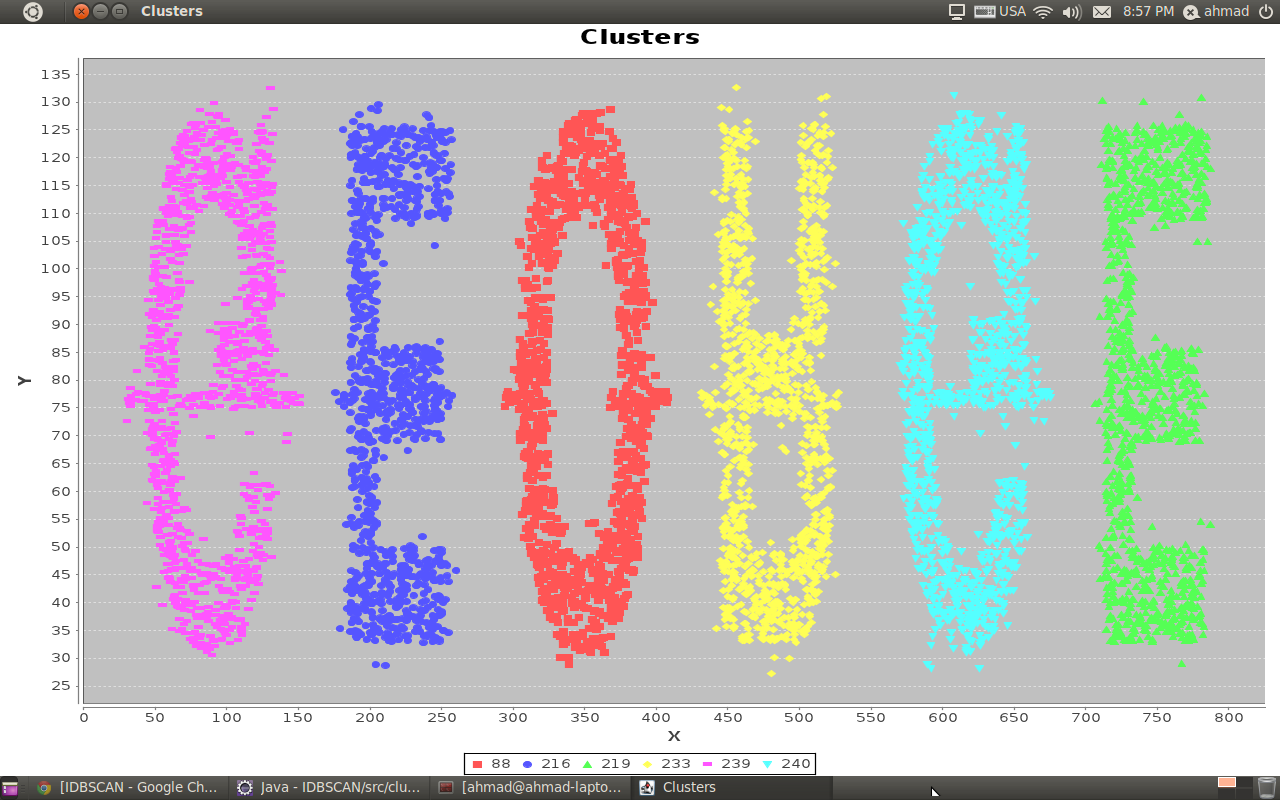
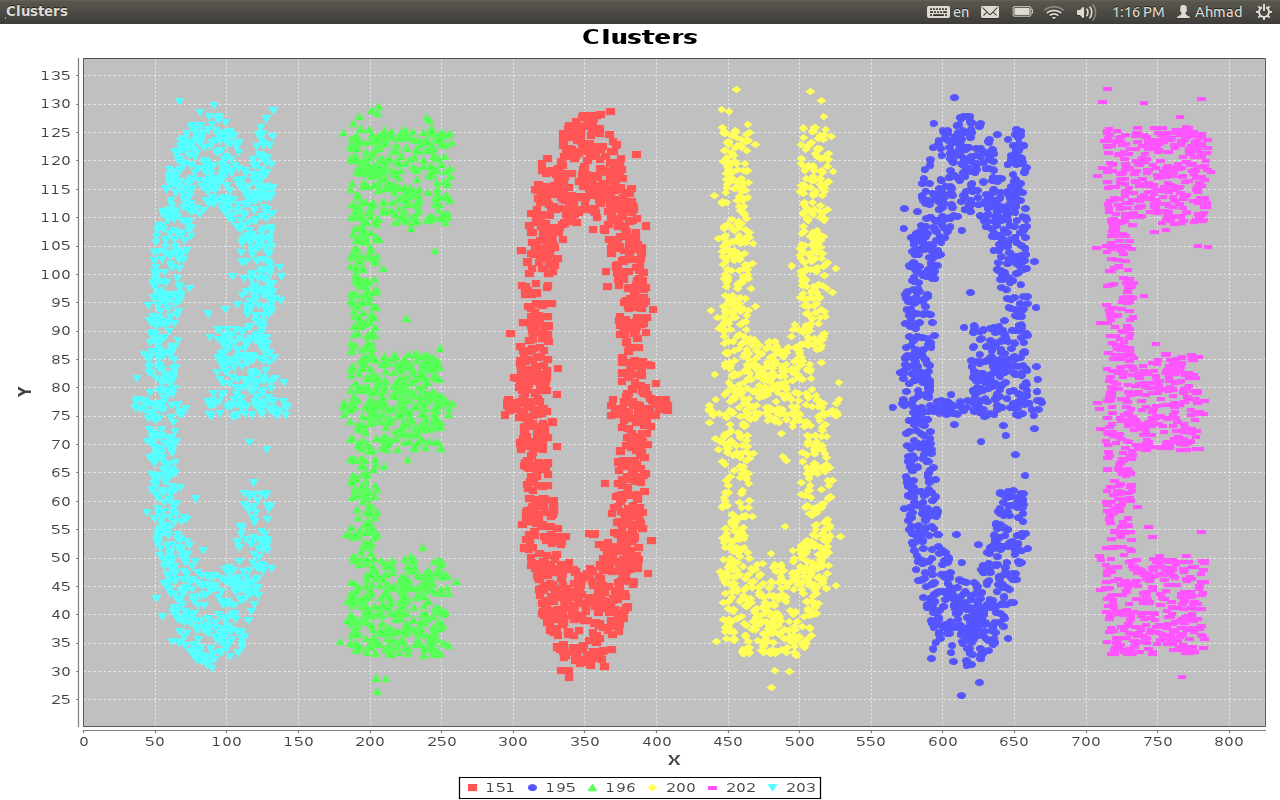
new result for incremental DBSCAN

diff --git a/src/clustering/incrementalAlgorithms/IncrementalDBSCAN.java b/src/clustering/incrementalAlgorithms/IncrementalDBSCAN.java
@@ -31,6 +31,7 @@ public class IncrementalDBSCAN {
 	
 	public void run(){
 		for (int i = 0; i < this.dataset.size(); i++) {
+			System.out.println(i);
 			DatasetPoint p = this.dataset.get(i);
 			clusterPoint(p);
 		}
@@ -150,6 +151,7 @@ public class IncrementalDBSCAN {
 				masterCluster.addPoint(p.getID());
 			}
 		}
+		//handleInsertionEffect(point, indexs);
 	}
 	
 	/**
@@ -162,6 +164,7 @@ public class IncrementalDBSCAN {
 		Cluster c = this.clustersList.get(Integer.parseInt(clusterID));
 		c.addPoint(point.getID());
 		point.setAssignedCluster(clusterID);
+	//	handleInsertionEffect(point, indexs);
 	}
 	
 	/**
@@ -189,6 +192,24 @@ public class IncrementalDBSCAN {
 			c.addPoint(p.getID());
 		}
 		this.clustersList.add(c);
+	//	handleInsertionEffect(point, seedPointsIDs);
+	}
+	
+	private void handleInsertionEffect(DatasetPoint point , ArrayList<Integer> seedPointsIDs){
+		seedPointsIDs.add(point.getID());
+		String clusterID = point.getAssignedCluster();
+		System.out.println("undone");
+		for (int i = 0; i < seedPointsIDs.size(); i++) {
+			DatasetPoint p = this.dataset.get(seedPointsIDs.get(i));
+			if(!p.getIsCore(this.minPts)) continue;
+			ArrayList<Integer> pointsAtEPS = p.getPointsAtEpsIndexs();
+			for (int j = 0; j < pointsAtEPS.size(); j++) {
+				DatasetPoint pp = this.dataset.get(pointsAtEPS.get(j));
+				if(pp.getAssignedCluster().equalsIgnoreCase("")) pp.setAssignedCluster(clusterID);
+			}
+			
+		}
+		System.out.println("done");
 	}
 	
 	/**
@@ -216,6 +237,7 @@ public class IncrementalDBSCAN {
 			for (int j = 0; j < neighbors.size(); j++) {
 				DatasetPoint neighbor = this.dataset.get(neighbors.get(j));
 				if(neighbor.getAssignedCluster().equalsIgnoreCase("") || !neighbor.getIsCore(this.minPts)) continue;
+				if(neighbor.getIsNoise()) continue;	
 				p.setAssignedCluster(neighbor.getAssignedCluster());
 				Cluster c = this.clustersList.get(Integer.parseInt(p.getAssignedCluster()));
 				c.addPoint(p.getID());
@@ -225,8 +247,8 @@ public class IncrementalDBSCAN {
 	}
 	
 	public static void main(String[] args) throws IOException {
-		double eps = 6.5;
-		int minPts= 12;
+		double eps = 7.8;
+		int minPts= 21;
 		ChameleonData datasetLoader = new ChameleonData();
 		ArrayList<DatasetPoint> dataset = datasetLoader.loadArrayList("/media/disk/master/Courses/Machine_Learning/datasets/chameleon-data/t5.8k.dat");
 		IncrementalDBSCAN incDBSCAN = new IncrementalDBSCAN(dataset, minPts, eps);
